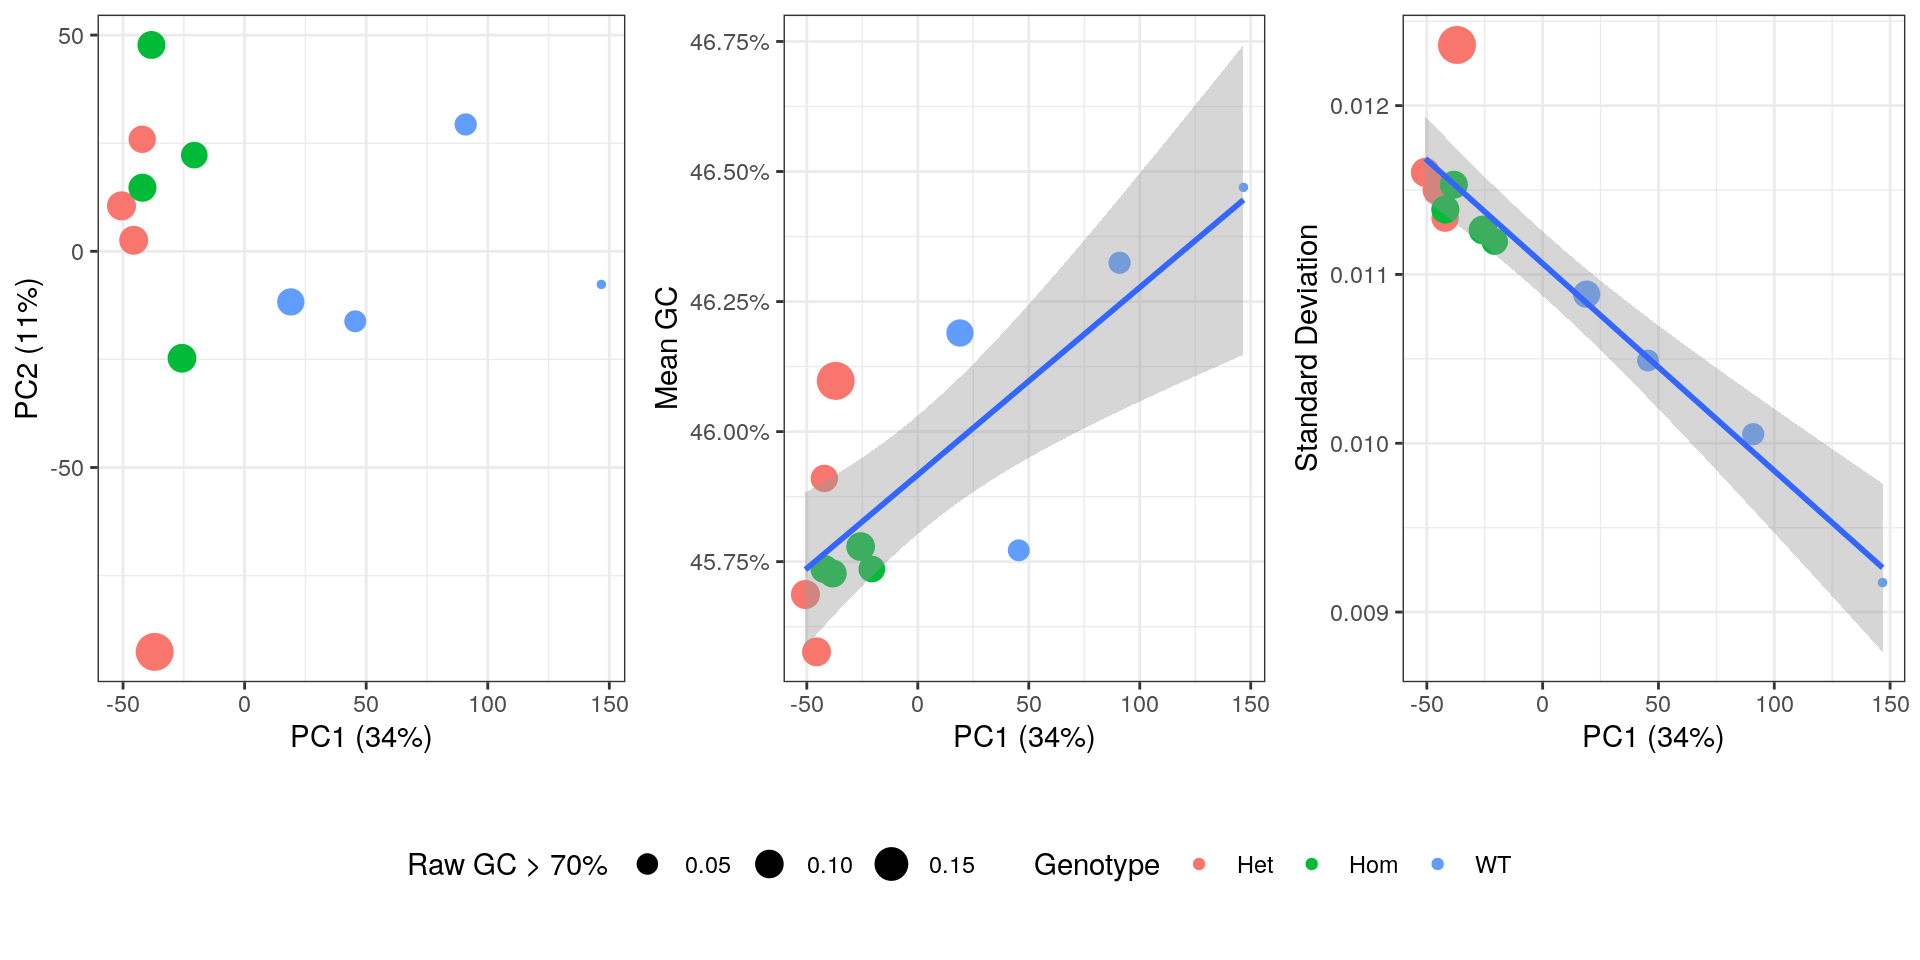
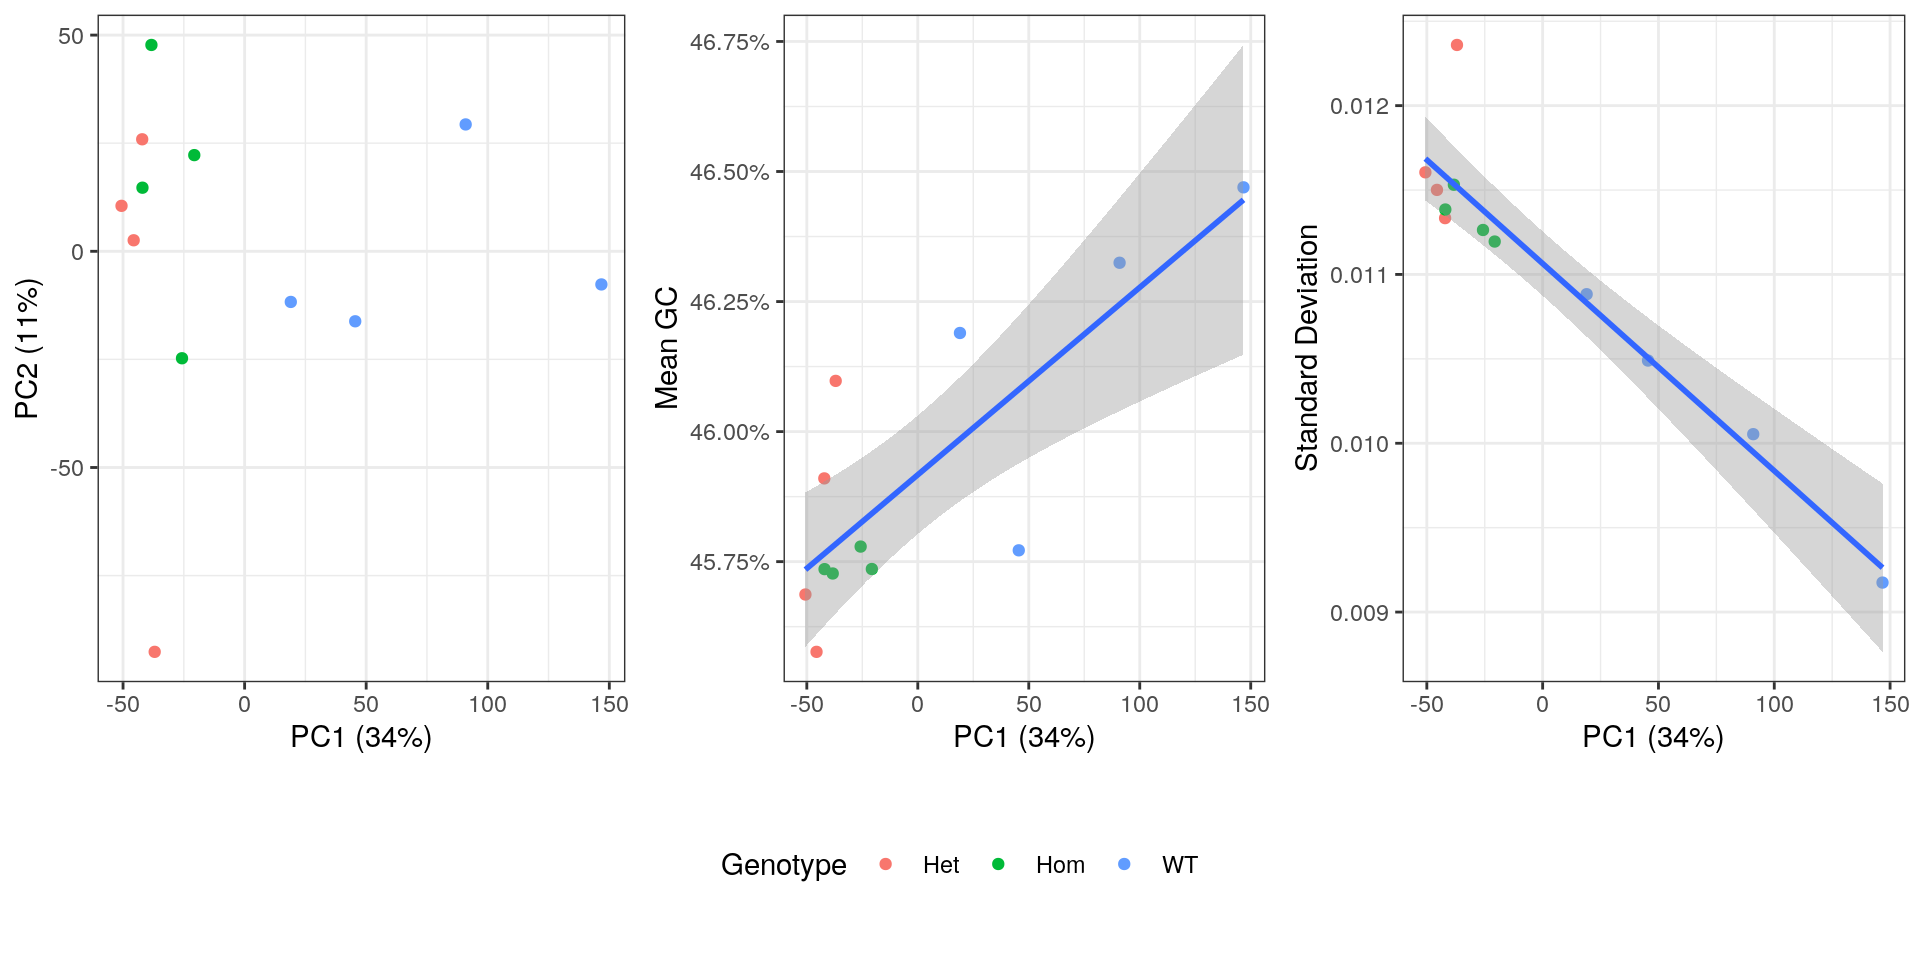
Updated QC

diff --git a/docs/1_QC.html b/docs/1_QC.html
@@ -387,7 +387,7 @@ div.section {
 
 <h1 class="title toc-ignore">QC of Psen2S4Ter Zebrafish</h1>
 <h4 class="author">Steve Pederson</h4>
-<h4 class="date">26 January, 2020</h4>
+<h4 class="date">27 January, 2020</h4>
 
 </div>
 
@@ -412,7 +412,7 @@ div.section {
 <div class="tab-content">
 <div id="summary" class="tab-pane fade in active">
 <p>
-<strong>Last updated:</strong> 2020-01-26
+<strong>Last updated:</strong> 2020-01-27
 </p>
 <p>
 <strong>Checks:</strong> <span class="glyphicon glyphicon-ok text-success" aria-hidden="true"></span> 7 <span class="glyphicon glyphicon-exclamation-sign text-danger" aria-hidden="true"></span> 0
@@ -503,10 +503,10 @@ This reproducible <a href="http://rmarkdown.rstudio.com">R Markdown</a> analysis
 <div class="panel panel-default">
 <div class="panel-heading">
 <p class="panel-title">
-<a data-toggle="collapse" data-parent="#workflowr-checks" href="#strongRepositoryversionstrongahrefhttpsgithubcomUofABioinformaticsHub20170327Psen2S4TerRNASeqtree25922d6c38bb1db05a8a82447495af075c761bf7targetblank25922d6a"> <span class="glyphicon glyphicon-ok text-success" aria-hidden="true"></span> <strong>Repository version:</strong> <a href="https://github.com/UofABioinformaticsHub/20170327_Psen2S4Ter_RNASeq/tree/25922d6c38bb1db05a8a82447495af075c761bf7" target="_blank">25922d6</a> </a>
+<a data-toggle="collapse" data-parent="#workflowr-checks" href="#strongRepositoryversionstrongahrefhttpsgithubcomUofABioinformaticsHub20170327Psen2S4TerRNASeqtree0605262bf770c867c59d2917106abe444c1988e9targetblank0605262a"> <span class="glyphicon glyphicon-ok text-success" aria-hidden="true"></span> <strong>Repository version:</strong> <a href="https://github.com/UofABioinformaticsHub/20170327_Psen2S4Ter_RNASeq/tree/0605262bf770c867c59d2917106abe444c1988e9" target="_blank">0605262</a> </a>
 </p>
 </div>
[2 lines of base64/hex data omitted]
 <div class="panel-body">
 <p>
 Great! You are using Git for version control. Tracking code development and connecting the code version to the results is critical for reproducibility. The version displayed above was the version of the Git repository at the time these results were generated. <br><br> Note that you need to be careful to ensure that all relevant files for the analysis have been committed to Git prior to generating the results (you can use <code>wflow_publish</code> or <code>wflow_git_commit</code>). workflowr only checks the R Markdown file, but you know if there are other scripts or data files that it depends on. Below is the status of the Git repository when the results were generated:
@@ -517,10 +517,7 @@ Ignored files:
     Ignored:    .Rproj.user/
 
 Unstaged changes:
-    Modified:   data/dgeList.rds
-    Modified:   data/fit.rds
-    Modified:   output/psen2HomVsHet.csv
-    Modified:   output/psen2VsWT.csv
+    Modified:   analysis/3_Enrichment.Rmd
 
 </code></pre>
 <p>
@@ -559,6 +556,40 @@ Message
 </tr>
 </thead>
 <tbody>
+<tr>
+<td>
+Rmd
+</td>
+<td>
+<a href="https://github.com/UofABioinformaticsHub/20170327_Psen2S4Ter_RNASeq/blob/0605262bf770c867c59d2917106abe444c1988e9/analysis/1_QC.Rmd" target="_blank">0605262</a>
+</td>
+<td>
+Steve Ped
+</td>
+<td>
+2020-01-27
+</td>
+<td>
+Updated QC
+</td>
+</tr>
+<tr>
+<td>
+html
+</td>
+<td>
+<a href="https://rawcdn.githack.com/UofABioinformaticsHub/20170327_Psen2S4Ter_RNASeq/68033fe913ed283729bacbb9da5ca972af17c67b/docs/1_QC.html" target="_blank">68033fe</a>
+</td>
+<td>
+Steve Ped
+</td>
+<td>
+2020-01-26
+</td>
+<td>
+Corrected chunk labels after publishing DE analysis
+</td>
+</tr>
 <tr>
 <td>
 Rmd
@@ -902,6 +933,58 @@ Steve Ped
 <img src="figure/1_QC.Rmd/unnamed-chunk-1-1.png" alt="*Standard deviations of observed GC frequency Vs Expected GC frequency using the theoretical GC across both sets of reads.*" width="672" />
 <p class="caption">
 <em>Standard deviations of observed GC frequency Vs Expected GC frequency using the theoretical GC across both sets of reads.</em>
+</p>
+</div>
+<p>
+<button type="button" class="btn btn-default btn-xs btn-workflowr btn-workflowr-fig" data-toggle="collapse" data-target="#fig-unnamed-chunk-1-1">
+Past versions of unnamed-chunk-1-1.png
+</button>
+</p>
+<div id="fig-unnamed-chunk-1-1" class="collapse">
+<div class="table-responsive">
+<table class="table table-condensed table-hover">
+<thead>
+<tr>
+<th>
+Version
+</th>
+<th>
+Author
+</th>
+<th>
+Date
+</th>
+</tr>
+</thead>
+<tbody>
+<tr>
+<td>
+<a href="https://github.com/UofABioinformaticsHub/20170327_Psen2S4Ter_RNASeq/blob/68033fe913ed283729bacbb9da5ca972af17c67b/docs/figure/1_QC.Rmd/unnamed-chunk-1-1.png" target="_blank">68033fe</a>
+</td>
+<td>
+Steve Ped
+</td>
+<td>
+2020-01-26
+</td>
+</tr>
+</tbody>
+</table>
+</div>
+</div>
+<pre class="r"><code>gcDev %&gt;%
+    left_join(rawGC) %&gt;%
+    ggplot(aes(sd, Freq)) +
+    geom_point() +
+    geom_smooth(method = &quot;lm&quot;) +
+    labs(
+        x = &quot;SD (GC - Theoretical)&quot;,
+        y = &quot;%Library &gt; GC70&quot;
+    )</code></pre>
+<div class="figure" style="text-align: center">
+<img src="figure/1_QC.Rmd/compareRiboMethods-1.png" alt="*Comparison of the two measures used for assessing rRNA contamination.*" width="384" />
+<p class="caption">
+<em>Comparison of the two measures used for assessing rRNA contamination.</em>
 </p>
 </div>
 </div>
@@ -1288,7 +1371,7 @@ gcSummary &lt;- gcInfo %&gt;%
     ) 
 b &lt;- gcSummary %&gt;%
     left_join(rawGC) %&gt;%
-        dplyr::filter(reads == &quot;R1&quot;) %&gt;%
+    dplyr::filter(reads == &quot;R1&quot;) %&gt;%
     ggplot(aes(Freq, mn_gc)) +
     geom_point(aes(colour = genotype), size = 3) +
     geom_smooth(method = &quot;lm&quot;) +
@@ -1299,12 +1382,41 @@ b &lt;- gcSummary %&gt;%
         y = &quot;Mean GC Content&quot;,
         colour = &quot;Genotype&quot;
     ) 
+c &lt;- gcSummary %&gt;%
+    left_join(gcDev) %&gt;%
+    ggplot(aes(sd, mn_logLen)) +
+    geom_point(aes(colour = genotype), size = 3) +
+    geom_smooth(method = &quot;lm&quot;) +
+    scale_shape_manual(values = c(19, 1)) +
+    scale_y_continuous(breaks = seq(3.2, 3.5, by = 0.02)) +
+    labs(
+        x = &quot;SD (GC - Theoretical)&quot;,
+        y = &quot;Mean log(length)&quot;,
+        colour = &quot;Genotype&quot;
+    ) 
+d &lt;- gcSummary %&gt;%
+    left_join(gcDev) %&gt;%
+    ggplot(aes(sd, mn_gc)) +
+    geom_point(aes(colour = genotype), size = 3) +
+    geom_smooth(method = &quot;lm&quot;) +
+    scale_shape_manual(values = c(19, 1)) +
+    scale_y_continuous(labels = percent) +
+    labs(
+        x = &quot;SD (GC - Theoretical)&quot;,
+        y = &quot;Mean GC Content&quot;,
+        colour = &quot;Genotype&quot;
+    ) 
 plot_grid(
-    a + theme(legend.position = &quot;none&quot;),
-    b + theme(legend.position = &quot;none&quot;),
+    plot_grid(
+        a + theme(legend.position = &quot;none&quot;),
+        b + theme(legend.position = &quot;none&quot;),
+        c + theme(legend.position = &quot;none&quot;),
+        d + theme(legend.position = &quot;none&quot;),
+        nrow = 2
+    ),
     get_legend(b),
     nrow = 1,
-    rel_widths = c(4,4,1)
+    rel_widths = c(8,1)
 )</code></pre>
 <div class="figure" style="text-align: center">
 <img src="figure/1_QC.Rmd/plotBias-1.png" alt="*Comparison of bias introduced by incomplete rRNA removal. Regression lines are shown along with standard error bands for each comparison.*" width="768" />
@@ -1349,42 +1461,6 @@ Steve Ped
 </table>
 </div>
 </div>
-<pre class="r"><code>a &lt;- gcSummary %&gt;%
-    left_join(gcDev) %&gt;%
-    ggplot(aes(sd, mn_logLen)) +
-    geom_point(aes(colour = genotype), size = 3) +
-    geom_smooth(method = &quot;lm&quot;) +
-    scale_shape_manual(values = c(19, 1)) +
-    labs(
-        x = &quot;Standard Deviation\n(Observed Vs Expected)&quot;,
-        y = &quot;Mean log(length)&quot;,
-        colour = &quot;Genotype&quot;
-    ) 
-b &lt;- gcSummary %&gt;%
-    left_join(gcDev) %&gt;%
-    ggplot(aes(sd, mn_gc)) +
-    geom_point(aes(colour = genotype), size = 3) +
-    geom_smooth(method = &quot;lm&quot;) +
-    scale_shape_manual(values = c(19, 1)) +
-    scale_y_continuous(labels = percent) +
-    labs(
-        x = &quot;Standard Deviation\n(Observed Vs Expected)&quot;,
-        y = &quot;Mean GC Content&quot;,
-        colour = &quot;Genotype&quot;
-    ) 
-plot_grid(
-    a + theme(legend.position = &quot;none&quot;),
-    b + theme(legend.position = &quot;none&quot;),
-    get_legend(b),
-    nrow = 1,
-    rel_widths = c(4,4,1)
-)</code></pre>
-<div class="figure" style="text-align: center">
-<img src="figure/1_QC.Rmd/plotGcSD-1.png" alt="*Comparison of bias introduced by incomplete rRNA removal, measured by the standard deviation of observed GC Vs expected GC. Regression lines are shown along with standard error bands for each comparison.*" width="768" />
-<p class="caption">
-<em>Comparison of bias introduced by incomplete rRNA removal, measured by the standard deviation of observed GC Vs expected GC. Regression lines are shown along with standard error bands for each comparison.</em>
-</p>
-</div>
 </div>
 <div id="pca" class="section level2">
 <h2>PCA</h2>
@@ -1412,7 +1488,7 @@ plot_grid(
     as_tibble() %&gt;% 
     left_join(
         dplyr::filter(rawGC, reads == &quot;R1&quot;)
-        ) %&gt;% 
+    ) %&gt;% 
     left_join(gcDev) %&gt;%
     dplyr::select(
         PC1, PC2, PC3, 
@@ -1459,6 +1535,17 @@ Date
 <tbody>
 <tr>
 <td>
+<a href="https://github.com/UofABioinformaticsHub/20170327_Psen2S4Ter_RNASeq/blob/68033fe913ed283729bacbb9da5ca972af17c67b/docs/figure/1_QC.Rmd/pcaCorrs-1.png" target="_blank">68033fe</a>
+</td>
+<td>
+Steve Ped
+</td>
+<td>
+2020-01-26
+</td>
+</tr>
+<tr>
+<td>
 <a href="https://github.com/UofABioinformaticsHub/20170327_Psen2S4Ter_RNASeq/blob/bc1210174c2f6056731bac6f3953b2b76d3e64c2/docs/figure/1_QC.Rmd/pcaCorrs-1.png" target="_blank">bc12101</a>
 </td>
 <td>
@@ -1479,12 +1566,11 @@ Steve Ped
         dplyr::filter(rawGC, reads == &quot;R1&quot;)
     ) %&gt;%
     as_tibble() %&gt;%
-    ggplot(aes(PC1, PC2, colour = genotype, size = Freq)) +
+    ggplot(aes(PC1, PC2, colour = genotype)) +
     geom_point() +
     labs(
         x = paste0(&quot;PC1 (&quot;, percent(summary(pca)$importance[&quot;Proportion of Variance&quot;,&quot;PC1&quot;]),&quot;)&quot;),
         y = paste0(&quot;PC2 (&quot;, percent(summary(pca)$importance[&quot;Proportion of Variance&quot;,&quot;PC2&quot;]),&quot;)&quot;),
-        size = &quot;Raw GC &gt; 70%&quot;,
         colour = &quot;Genotype&quot;
     )
 b &lt;- pca$x %&gt;%
@@ -1496,29 +1582,27 @@ b &lt;- pca$x %&gt;%
     ) %&gt;%
     as_tibble() %&gt;%
     ggplot(aes(PC1, mn_gc)) +
-    geom_point(aes(colour = genotype,  size = Freq)) +
+    geom_point(aes(colour = genotype)) +
     geom_smooth(method = &quot;lm&quot;) +
     scale_y_continuous(labels = percent) +
     labs(
         x = paste0(&quot;PC1 (&quot;, percent(summary(pca)$importance[&quot;Proportion of Variance&quot;,&quot;PC1&quot;]),&quot;)&quot;),
         y = &quot;Mean GC&quot;,
-        size = &quot;Raw GC &gt; 70%&quot;,
         colour = &quot;Genotype&quot;
     )
 c &lt;- pca$x %&gt;%
     as.data.frame() %&gt;%
     rownames_to_column(&quot;sampleName&quot;) %&gt;%
     left_join(gcDev) %&gt;%
-     left_join(
-         rawGC %&gt;% dplyr::filter(reads == &quot;R1&quot;)
-     ) %&gt;%
-     ggplot(aes(PC1, sd)) +
-    geom_point(aes(colour = genotype, size = Freq)) +
+    left_join(
+        rawGC %&gt;% dplyr::filter(reads == &quot;R1&quot;)
+    ) %&gt;%
+    ggplot(aes(PC1, sd)) +
+    geom_point(aes(colour = genotype)) +
     geom_smooth(method = &quot;lm&quot;) +
     labs(
         x = paste0(&quot;PC1 (&quot;, percent(summary(pca)$importance[&quot;Proportion of Variance&quot;,&quot;PC1&quot;]),&quot;)&quot;),
         y = &quot;Standard Deviation&quot;,
-        size = &quot;Raw GC &gt; 70%&quot;,
         colour = &quot;Genotype&quot;
     )
 plot_grid(
@@ -1533,9 +1617,9 @@ plot_grid(
     rel_heights = c(4,1)
 )</code></pre>
 <div class="figure" style="text-align: center">
-<img src="figure/1_QC.Rmd/plotPCA-1.png" alt="*PCA plot showing genotype, initial GC content &gt; 70%, deviation from theoretical and mean GC content after summarisation to transcript-level.*" width="960" />
+<img src="figure/1_QC.Rmd/plotPCA-1.png" alt="*PCA plot showing genotype, mean GC content, standard deviation from theoretical and  after summarisation to transcript-level.*" width="960" />
 <p class="caption">
-<em>PCA plot showing genotype, initial GC content &gt; 70%, deviation from theoretical and mean GC content after summarisation to transcript-level.</em>
+<em>PCA plot showing genotype, mean GC content, standard deviation from theoretical and after summarisation to transcript-level.</em>
 </p>
 </div>
 <p>
@@ -1560,6 +1644,17 @@ Date
 </tr>
 </thead>
 <tbody>
+<tr>
+<td>
+<a href="https://github.com/UofABioinformaticsHub/20170327_Psen2S4Ter_RNASeq/blob/68033fe913ed283729bacbb9da5ca972af17c67b/docs/figure/1_QC.Rmd/plotPCA-1.png" target="_blank">68033fe</a>
+</td>
+<td>
+Steve Ped
+</td>
+<td>
+2020-01-26
+</td>
+</tr>
 <tr>
 <td>
 <a href="https://github.com/UofABioinformaticsHub/20170327_Psen2S4Ter_RNASeq/blob/bc1210174c2f6056731bac6f3953b2b76d3e64c2/docs/figure/1_QC.Rmd/plotPCA-1.png" target="_blank">bc12101</a>
@@ -1593,7 +1688,7 @@ Steve Ped
  collate  en_AU.UTF-8                 
  ctype    en_AU.UTF-8                 
  tz       Australia/Adelaide          
- date     2020-01-26                  
+ date     2020-01-27                  
 
 ─ Packages ───────────────────────────────────────────────────────────────────
  package                * version  date       lib source        
@@ -1616,7 +1711,7 @@ Steve Ped
  bitops                   1.0-6    2013-08-17 [2] CRAN (R 3.6.0)
  blob                     1.2.1    2020-01-20 [2] CRAN (R 3.6.2)
  broom                    0.5.3    2019-12-14 [2] CRAN (R 3.6.2)
- callr                    3.4.0    2019-12-09 [2] CRAN (R 3.6.2)
+ callr                    3.4.1    2020-01-24 [2] CRAN (R 3.6.2)
  cellranger               1.1.0    2016-07-27 [2] CRAN (R 3.6.0)
  cli                      2.0.1    2020-01-08 [2] CRAN (R 3.6.2)
  cluster                  2.1.0    2019-06-19 [2] CRAN (R 3.6.1)
@@ -1718,7 +1813,7 @@ Steve Ped
  reshape2                 1.4.3    2017-12-11 [2] CRAN (R 3.6.0)
  rhdf5                    2.30.1   2019-11-26 [2] Bioconductor  
  Rhdf5lib                 1.8.0    2019-10-29 [2] Bioconductor  
- rlang                    0.4.2    2019-11-23 [2] CRAN (R 3.6.1)
+ rlang                    0.4.3    2020-01-24 [2] CRAN (R 3.6.2)
  rmarkdown                2.1      2020-01-20 [2] CRAN (R 3.6.2)
  rprojroot                1.3-2    2018-01-03 [2] CRAN (R 3.6.0)
  Rsamtools                2.2.1    2019-11-06 [2] Bioconductor  
@@ -1737,12 +1832,12 @@ Steve Ped
  SummarizedExperiment     1.16.1   2019-12-19 [2] Bioconductor  
  testthat                 2.3.1    2019-12-01 [2] CRAN (R 3.6.1)
  tibble                 * 2.1.3    2019-06-06 [2] CRAN (R 3.6.0)
- tidyr                  * 1.0.0    2019-09-11 [2] CRAN (R 3.6.1)
+ tidyr                  * 1.0.2    2020-01-24 [2] CRAN (R 3.6.2)
  tidyselect               0.2.5    2018-10-11 [2] CRAN (R 3.6.0)
  tidyverse              * 1.3.0    2019-11-21 [2] CRAN (R 3.6.1)
  truncnorm                1.0-8    2018-02-27 [2] CRAN (R 3.6.0)
  usethis                  1.5.1    2019-07-04 [2] CRAN (R 3.6.1)
- vctrs                    0.2.1    2019-12-17 [2] CRAN (R 3.6.2)
+ vctrs                    0.2.2    2020-01-24 [2] CRAN (R 3.6.2)
  viridisLite              0.3.0    2018-02-01 [2] CRAN (R 3.6.0)
  webshot                  0.5.2    2019-11-22 [2] CRAN (R 3.6.1)
  whisker                  0.4      2019-08-28 [2] CRAN (R 3.6.1)
@@ -1754,7 +1849,6 @@ Steve Ped
  xtable                   1.8-4    2019-04-21 [2] CRAN (R 3.6.0)
  XVector                  0.26.0   2019-10-29 [2] Bioconductor  
  yaml                     2.2.0    2018-07-25 [2] CRAN (R 3.6.0)
- zeallot                  0.1.0    2018-01-28 [2] CRAN (R 3.6.0)
  zlibbioc                 1.32.0   2019-10-29 [2] Bioconductor  
  zoo                      1.8-7    2020-01-10 [2] CRAN (R 3.6.2)
 
